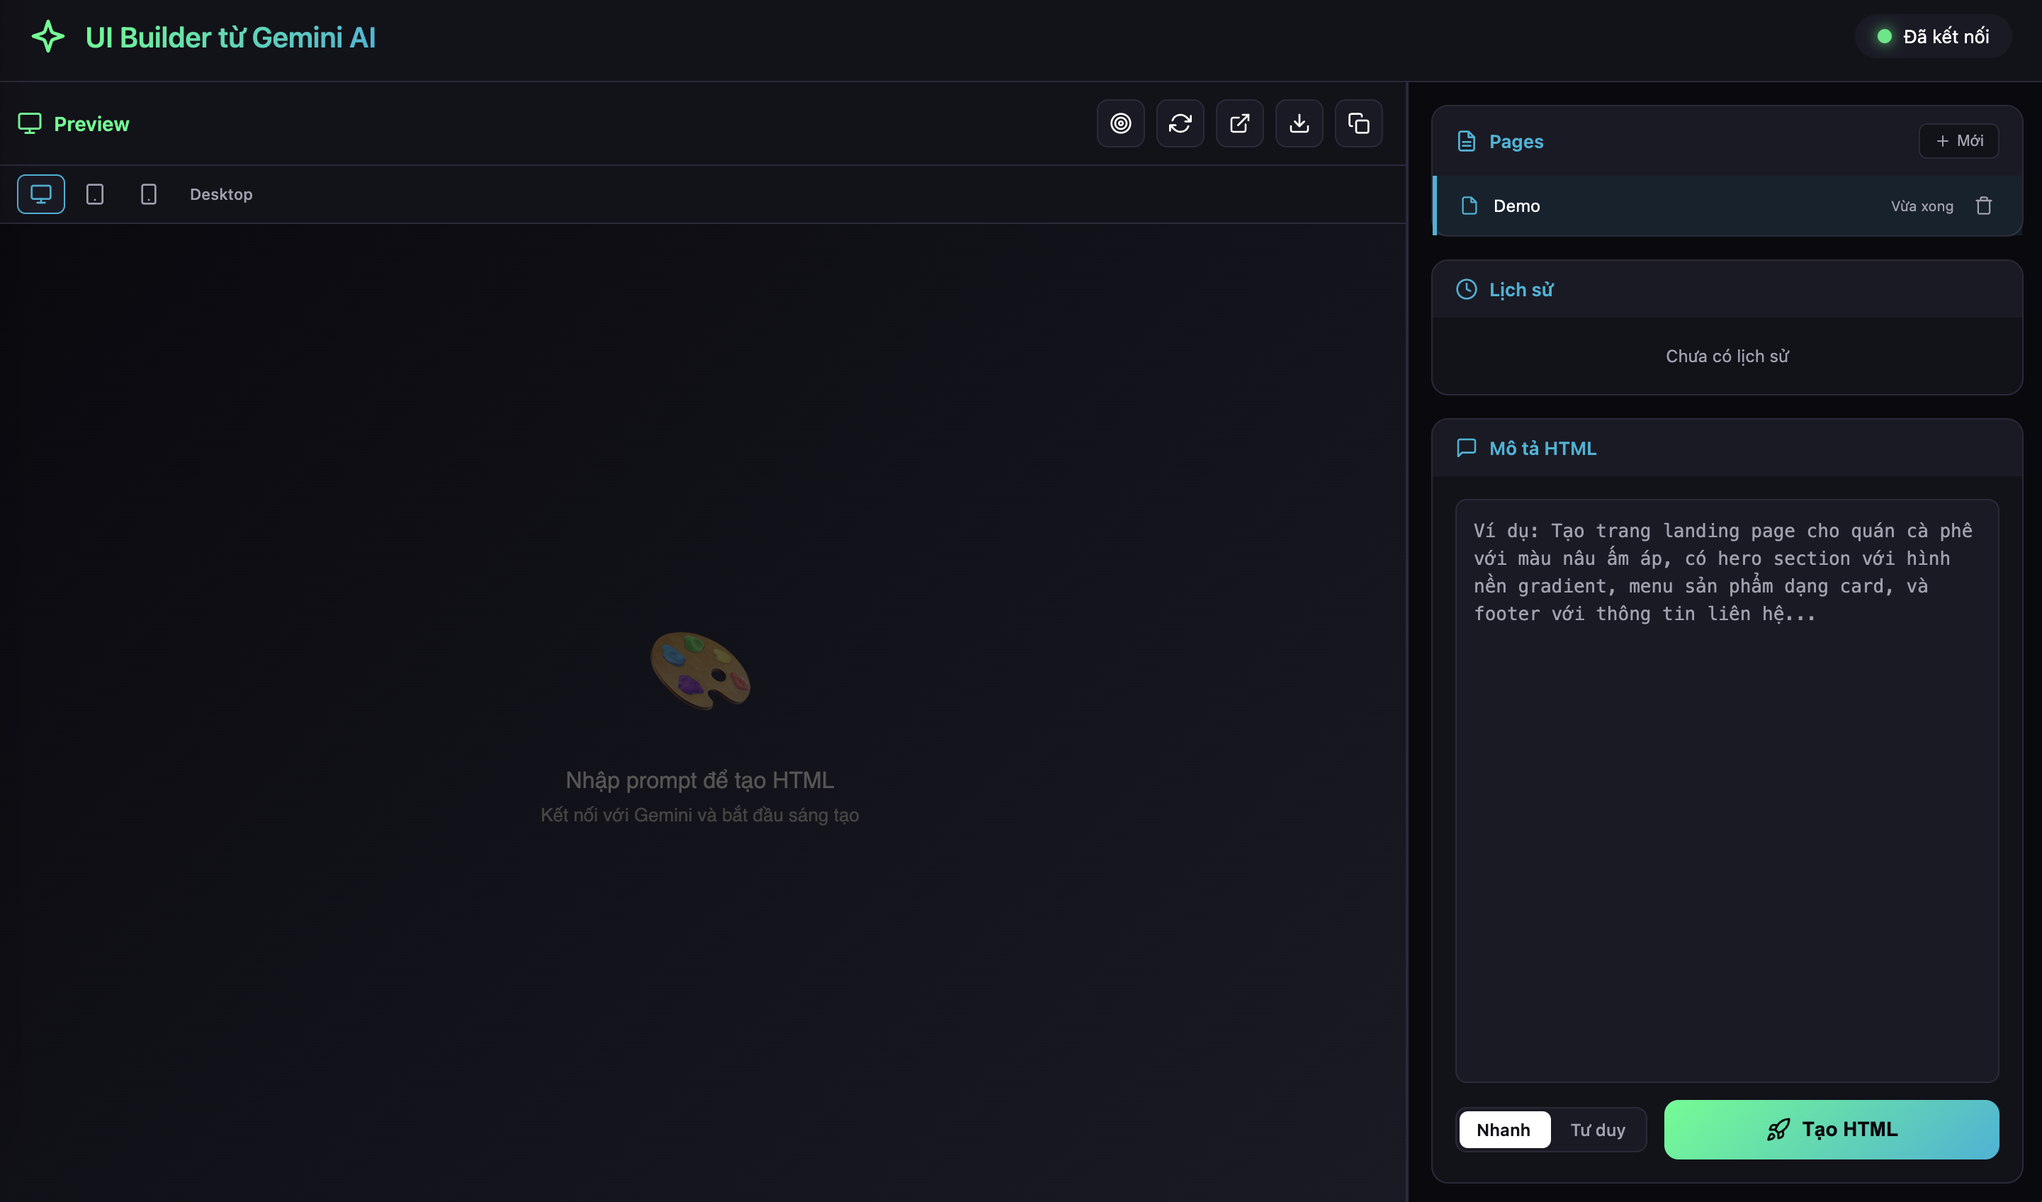
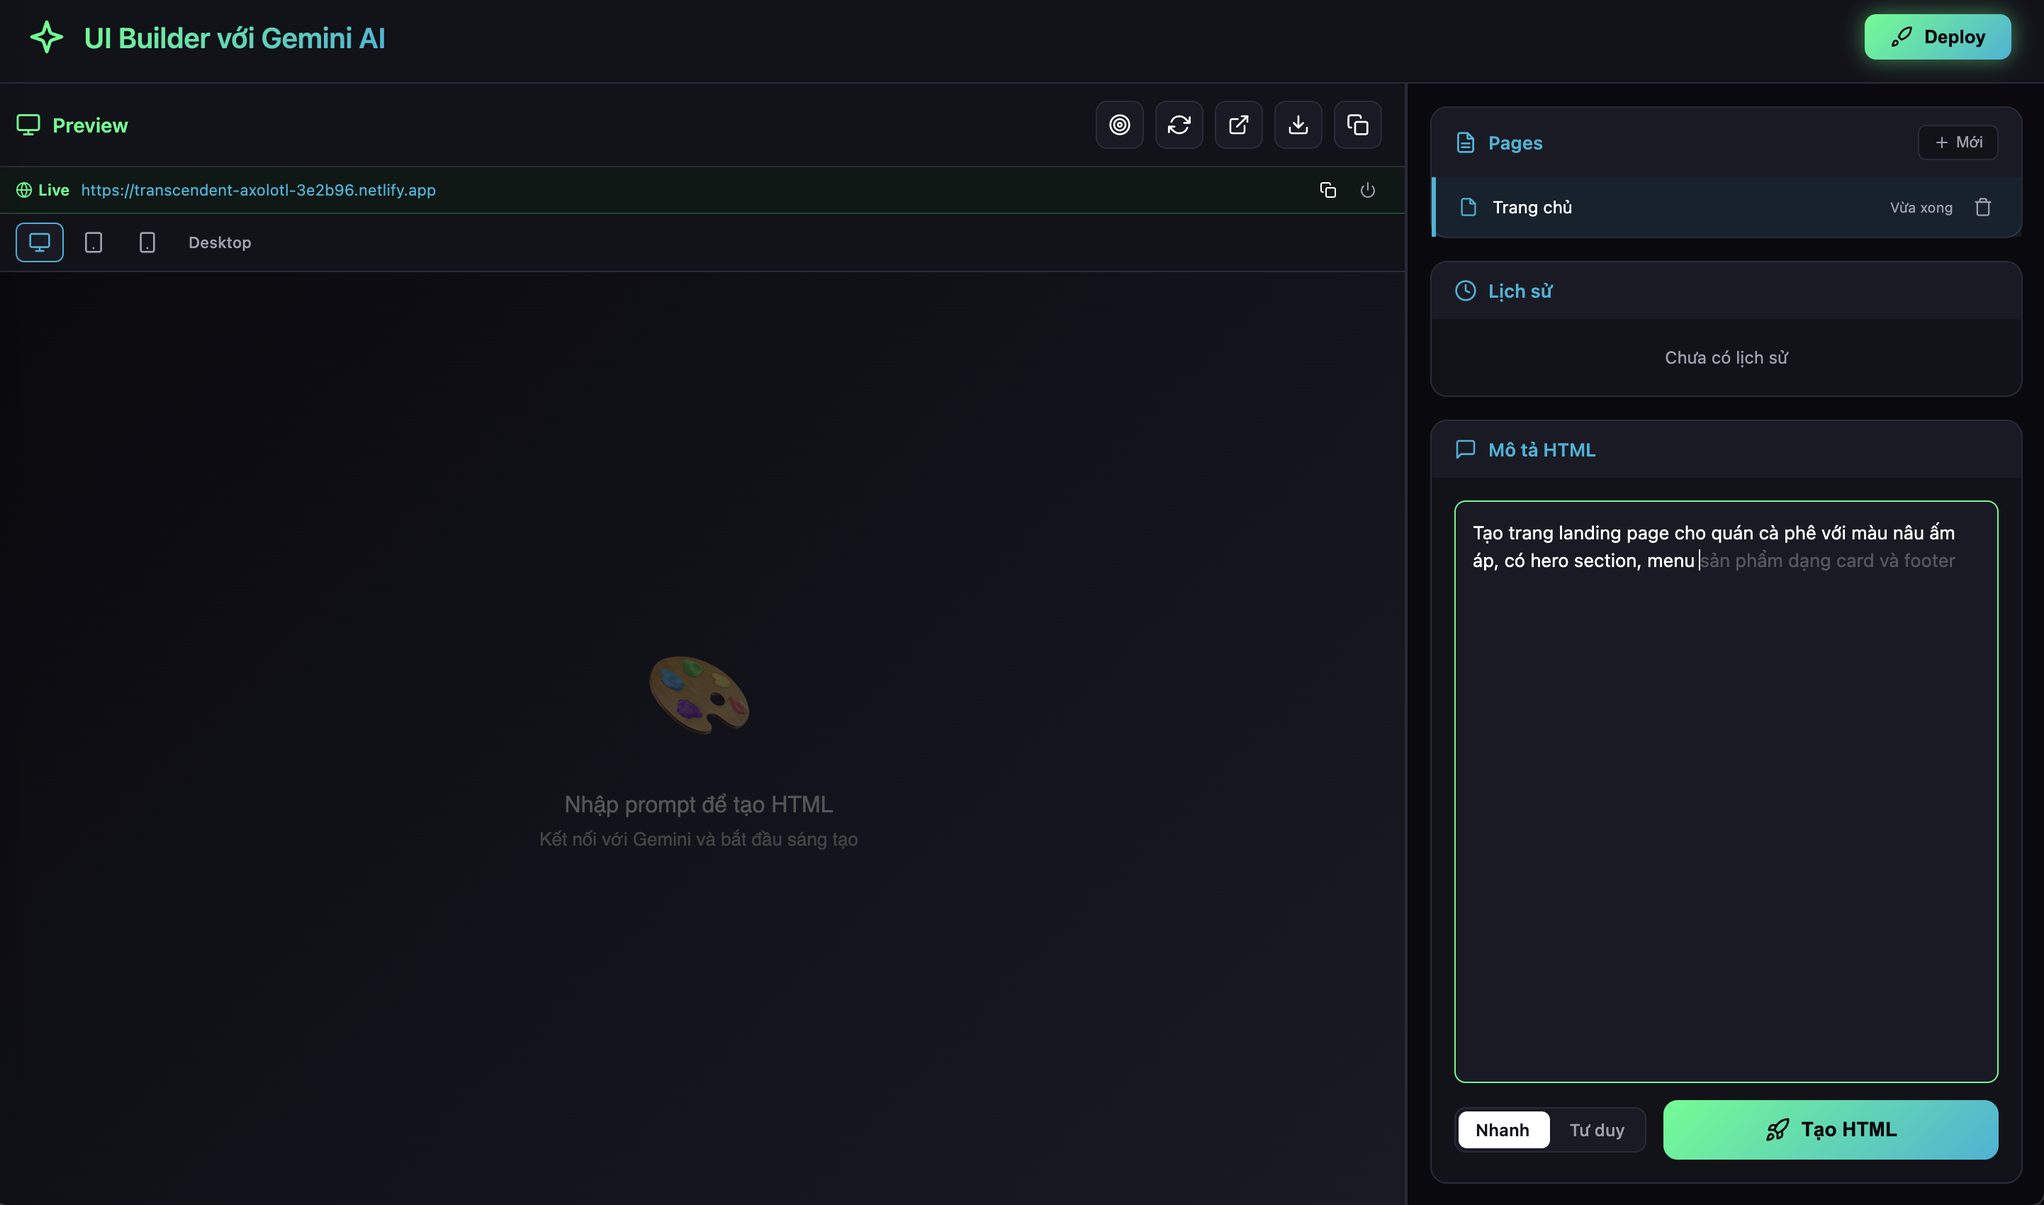
Update README and improve background script for conversation context management

diff --git a/background.js b/background.js
@@ -300,13 +300,20 @@ chrome.runtime.onMessage.addListener((message, sender, sendResponse) => {
         text: message.text || '',
         requestId: message.requestId
       });
-      // Persist updated conversation IDs to chrome.storage.local
-      if (message.suggestConversationId || message.suggestResponseId || message.suggestChoiceId) {
-        if (message.suggestConversationId) suggestConversation.conversationId = message.suggestConversationId;
-        if (message.suggestResponseId) suggestConversation.responseId = message.suggestResponseId;
-        if (message.suggestChoiceId) suggestConversation.choiceId = message.suggestChoiceId;
-        chrome.storage.local.set({ suggestConversation });
-        console.log('Saved suggestConversation to storage');
+      if (message.success) {
+        // Persist updated conversation IDs on success
+        if (message.suggestConversationId || message.suggestResponseId || message.suggestChoiceId) {
+          if (message.suggestConversationId) suggestConversation.conversationId = message.suggestConversationId;
+          if (message.suggestResponseId) suggestConversation.responseId = message.suggestResponseId;
+          if (message.suggestChoiceId) suggestConversation.choiceId = message.suggestChoiceId;
+          chrome.storage.local.set({ suggestConversation });
+          console.log('Saved suggestConversation to storage');
+        }
+      } else if (suggestConversation.conversationId) {
+        // Conversation may have been deleted — clear stale IDs so next request starts fresh
+        suggestConversation = { conversationId: '', responseId: '', choiceId: '' };
+        chrome.storage.local.remove('suggestConversation');
+        console.log('Cleared stale suggestConversation after failure');
       }
       break;
   }

diff --git a/injected.js b/injected.js
@@ -949,6 +949,8 @@ Start your response with exactly: <!DOCTYPE html>`;
       });
 
       if (!response.ok) {
+        // Conversation may have been deleted — reset local context so next call starts fresh
+        suggestConversation = { conversationId: '', responseId: '', choiceId: '' };
         window.postMessage({
           type: 'GEMINI_SUGGEST_RESULT',
           success: false,
@@ -980,6 +982,8 @@ Start your response with exactly: <!DOCTYPE html>`;
 
     } catch (e) {
       console.error('suggestCompletion error:', e);
+      // Reset context in case conversation is invalid
+      suggestConversation = { conversationId: '', responseId: '', choiceId: '' };
       window.postMessage({
         type: 'GEMINI_SUGGEST_RESULT',
         success: false,

diff --git a/README.md b/README.md
@@ -1,97 +1,143 @@
-# ✨ Gemini HTML Builder — Chrome Extension
+# Gemini HTML Builder — Chrome Extension
 
-Chrome Extension tạo HTML/UI với Gemini AI với preview trực tiếp, inspect & chỉnh sửa phần tử, quản lý đa page và lịch sử phiên bản.
+Chrome Extension tạo website HTML/CSS/JS hoàn chỉnh bằng Gemini AI — preview trực tiếp, inspect & chỉnh sửa phần tử, quản lý đa page, gợi ý prompt AI, deploy multi-page lên Netlify.
 
 ## Tính năng
 
-### 🤖 Tạo HTML bằng AI
-- Mô tả UI bằng ngôn ngữ tự nhiên (tiếng Việt), Gemini sinh HTML hoàn chỉnh (single-file, inline CSS)
-- **Hai chế độ AI**: ⚡ Nhanh (Flash) và 🧠 Tư duy (Thinking) — chuyển đổi bằng toggle switch
-- **Chỉnh sửa lặp lại** — prompt tiếp theo tự động bao gồm HTML hiện tại, AI chỉ thay đổi phần được yêu cầu mà bảo toàn toàn bộ CSS/cấu trúc
+### Tạo HTML bằng AI
+- Mô tả UI bằng ngôn ngữ tự nhiên (tiếng Việt), Gemini sinh HTML hoàn chỉnh (single-file, inline CSS/JS)
+- **Hai chế độ AI**: Flash (nhanh) và Thinking (tư duy sâu) — chuyển đổi bằng toggle switch
+- **Chỉnh sửa lặp lại** — prompt tiếp theo tự động bao gồm HTML hiện tại, AI chỉ thay đổi phần được yêu cầu mà bảo toàn CSS/cấu trúc
+- **Conversation context** — mỗi page duy trì ngữ cảnh hội thoại riêng, các prompt tiếp theo hiểu context trước đó
 
-### 🎯 Inspect & Chỉnh sửa phần tử
-- Bật chế độ **Inspect** → di chuột để highlight phần tử → click để chọn
-- Mô tả thay đổi cho phần tử đã chọn → AI chỉ sửa innerHTML của phần tử đó mà không ảnh hưởng phần còn lại
-- Hiển thị CSS selector của phần tử đang được chỉnh sửa
+### Inspect & Chỉnh sửa phần tử
+- Bật chế độ **Inspect** → di chuột highlight phần tử → click chọn
+- Mô tả thay đổi cho phần tử đã chọn → AI chỉ sửa innerHTML của phần tử đó
+- Hiển thị CSS selector của phần tử đang chỉnh sửa
 
-### 📱 Device Preview
+### Device Preview
 - Xem trước ở 3 kích thước: **Desktop** (100%), **Tablet** (768px), **Mobile** (375px)
 - Chuyển đổi nhanh bằng toolbar trên preview
 
-### 📄 Quản lý đa Page
+### Quản lý đa Page
 - Tạo, đổi tên (double-click), xóa nhiều page
-- Mỗi page là một workspace độc lập với conversation context riêng (conversationId/responseId/choiceId)
-- Prompt tiếp theo trên cùng page tiếp tục ngữ cảnh hội thoại trước đó
+- Mỗi page là workspace độc lập với conversation context riêng
+- Chuyển page nhanh, JS trong page hoạt động đầy đủ nhờ sandbox blob URL
 
-### 📜 Lịch sử & Revert
-- Mỗi lần tạo/chỉnh sửa được lưu thành một mục lịch sử (prompt + full HTML)
-- Click vào mục lịch sử bất kỳ để xem lại phiên bản đó
-- **Revert** — click vào phiên bản cũ, prompt tiếp theo sẽ tiếp tục từ phiên bản đã revert
+### Điều hướng Link & Tạo page tự động
+- Click link trong preview → hiện modal tạo page mới hoặc chuyển đến page đã tồn tại
+- Tên page lấy từ text của link (hỗ trợ tiếng Việt có dấu)
+- Prompt được tách: user thấy prompt sạch, internal instructions tự động thêm phía sau
+- Matching thông minh: so khớp bằng tên page + slug fallback (Vietnamese diacritics safe)
 
-### 🛠 Các thao tác khác
-- 🔄 Refresh preview
-- 🔗 Mở preview trong tab mới
-- 📥 Tải xuống file HTML
-- 📋 Copy HTML vào clipboard
-- 🔒 Khóa UI khi đang tạo (click khi đang tạo sẽ hiện hiệu ứng shake-reject)
-- 🔌 Tự động kết nối / tái kết nối Gemini
+### AI Suggestions (Gợi ý prompt)
+- Gợi ý tự động từ danh sách preset + AI-powered completion từ Gemini
+- Ghost text hiển thị gợi ý, nhấn **Tab** để chấp nhận
+- Cache LRU (50 items) tránh gọi API trùng lặp
+- Hoạt động cả ở prompt chính và modal tạo page
+
+### Lịch sử & Revert
+- Mỗi lần tạo/chỉnh sửa được lưu (prompt + full HTML)
+- Click mục lịch sử để xem lại phiên bản cũ
+- **Revert** — prompt tiếp theo sẽ tiếp tục từ phiên bản đã revert
+
+### Deploy lên Netlify (Multi-page)
+- Kết nối bằng Netlify Personal Access Token
+- **Một site duy nhất** cho tất cả các page — deploy/cập nhật cùng một URL
+- Trang đầu tiên → `/index.html` (root), các trang khác → `/slug/index.html`
+- **Tự động rewrite link giữa các page**:
+  - Link có href thật (vd: `san-pham.html`) → match bằng tên page + slug
+  - Link placeholder (`href="#"`) → match bằng nội dung text của link
+- Auto-recreate site nếu bị xóa trên Netlify
+
+### Các thao tác khác
+- Refresh preview / mở trong tab mới / tải xuống HTML / copy HTML
+- Khóa UI khi đang tạo (hiệu ứng shake-reject khi click)
+- Tự động kết nối / tái kết nối Gemini
+- Toast notification kiểu Dynamic Island
 
 ## Cài đặt
 
-1. Mở Chrome → truy cập `chrome://extensions/`
+1. Mở Chrome → `chrome://extensions/`
 2. Bật **Developer mode** (góc phải trên)
 3. Click **Load unpacked** → chọn thư mục `extension-ui-builder`
 4. Click icon extension trên toolbar để mở giao diện
 
 ## Sử dụng
 
-1. **Mở trang Gemini** — Extension tự động mở tab `gemini.google.com` và kết nối khi cần
+1. **Mở giao diện** — Extension tự động mở tab Gemini và kết nối
 2. **Chờ kết nối** — Đèn trạng thái chuyển xanh "Đã kết nối"
-3. **Nhập prompt** — Mô tả HTML/UI bạn muốn tạo
-4. **Chọn model** — ⚡ Nhanh (mặc định) hoặc 🧠 Tư duy
-5. **Nhấn "Tạo HTML"** — Chờ AI trả kết quả, preview hiển thị bên trái
-6. **Chỉnh sửa** — Nhập prompt tiếp theo để sửa đổi, hoặc dùng Inspect để sửa từng phần tử
+3. **Nhập prompt** — Mô tả website bạn muốn tạo (ghost text gợi ý khi gõ)
+4. **Chọn model** — Flash (mặc định) hoặc Thinking
+5. **Nhấn "Tạo HTML"** — Preview hiển thị bên trái
+6. **Chỉnh sửa** — Prompt tiếp theo để sửa, hoặc Inspect để sửa từng phần tử
+7. **Tạo multi-page** — Click link trong preview để tạo page mới liên kết
+8. **Deploy** — Kết nối Netlify token → nhấn Deploy → tất cả page lên cùng một site
 
 ## Kiến trúc
 
 ```
-Options Page ←──chrome.runtime──→ Background (SW) ←──chrome.tabs──→ Content Script ←──postMessage──→ Injected Script
- (Giao diện)                     (Điều phối)                       (gemini.google.com)               (Page Context)
+Options Page ←─chrome.runtime─→ Background (SW) ←─chrome.tabs─→ Content Script ←─postMessage─→ Injected Script
+ (Giao diện)                    (Điều phối)                     (gemini.google.com)              (Page Context)
+      │
+      │ postMessage
+      ▼
+ Sandbox Iframe (blob:// URL)
+ (Preview HTML + Bridge Script)
 ```
 
 | Thành phần | Vai trò |
 |---|---|
-| **options.js** | Giao diện chính — quản lý page, history, prompt, preview, inspect mode, device toolbar |
-| **background.js** | Service worker — điều phối message giữa options và content script, quản lý tab Gemini, tự động kết nối |
-| **content.js** | Chạy trên gemini.google.com — cầu nối giữa chrome.runtime và window.postMessage, inject script |
-| **injected.js** | Chạy trong page context của Gemini — trích xuất token xác thực, gọi API StreamGenerate, parse streaming response |
+| **options.js** | Controller chính — page, history, prompt, preview, inspect, deploy, AI suggestion, link modal |
+| **background.js** | Service worker — điều phối message, quản lý tab Gemini, lưu suggestion context |
+| **content.js** | Chạy trên gemini.google.com — cầu nối chrome.runtime ↔ window.postMessage |
+| **injected.js** | Page context Gemini — trích xuất token xác thực, gọi StreamGenerate API, parse streaming |
 | **db.js** | IndexedDB wrapper — lưu trữ pages và lịch sử HTML |
+| **icons.js** | SVG icon library |
 
 ### Luồng tạo HTML
 
 ```
 1. User nhập prompt → options.js
-2. options.js xây dựng prompt (new / modification / element-edit) → GENERATE_HTML → background.js
-3. background.js tìm/mở tab Gemini → GENERATE_REQUEST → content.js
-4. content.js → postMessage → injected.js
-5. injected.js:
-   - Trích xuất token (SNlM0e, FdrFJe, bl) từ DOM
-   - Gọi POST /_/BardChatUi/data/assistant.lamda.BardFrontendService/StreamGenerate
+2. options.js xây dựng prompt (new / modification / element-edit) → background.js
+3. background.js → content.js → injected.js
+4. injected.js:
+   - Trích xuất token (SNlM0e, bl, sessionId) từ page
+   - POST /_/BardChatUi/data/assistant.lamda.BardFrontendService/StreamGenerate
    - Parse streaming response (chunked wrb.fr JSON)
-   - Trích xuất HTML từ token array hoặc text field
-   - Trích xuất conversationId / responseId / choiceId
-6. Kết quả chảy ngược: injected.js → content.js → background.js → options.js
-7. options.js hiển thị preview, lưu IndexedDB, cập nhật history
+   - Trích xuất HTML + conversationId / responseId / choiceId
+5. Kết quả chảy ngược: injected.js → content.js → background.js → options.js
+6. options.js: fix pipeline → preview → lưu IndexedDB → cập nhật history
 ```
 
 ### Xử lý prompt thông minh
 
 | Tình huống | Cách xử lý |
 |---|---|
-| **Page trống** | Bọc prompt với hướng dẫn tạo HTML thuần (single-file, inline CSS, responsive, không dùng ảnh) |
-| **Có HTML + sửa đổi** | Gửi kèm toàn bộ HTML hiện tại + yêu cầu sửa + luật bảo toàn CSS/cấu trúc |
-| **Chỉnh sửa phần tử** | Gửi outerHTML của phần tử + yêu cầu → AI trả innerHTML mới |
-| **Revert** | Đánh dấu trạng thái revert, prompt tiếp theo bao gồm note cho AI biết đã revert |
+| **Page trống** | Bọc prompt với hướng dẫn tạo HTML thuần (single-file, inline CSS, responsive) |
+| **Có HTML + sửa đổi** | Gửi kèm HTML hiện tại + yêu cầu sửa + luật bảo toàn CSS/cấu trúc |
+| **Chỉnh sửa phần tử** | Gửi outerHTML phần tử + yêu cầu → AI trả innerHTML mới |
+| **Revert** | Đánh dấu trạng thái revert, prompt tiếp theo bao gồm context đã revert |
+| **Tạo page từ link** | Tách user prompt (sạch) khỏi internal instructions (giữ style/header/footer) |
+
+### HTML Fix Pipeline
+
+Gemini đôi khi sinh HTML bị lỗi encoding. Pipeline tự động sửa trước khi preview:
+
+| Hàm | Sửa lỗi |
+|---|---|
+| `fixMarkdownUrls` | URL bị wrap markdown `[url](url)` trong HTML attribute và `<script>` |
+| `fixSuspiciousLinks` | `[suspicious link removed]` → detect library → inject CDN (Font Awesome, Bootstrap, AOS...) |
+| `fixEncodedScripts` | Entity-encoded JS trong `<script>` (`&lt;`, `&amp;`...) → decode, escape `</script>` safety |
+| `fixBackslashAmpersands` | `\&amp;` và `\&` trong URL attribute → `&` (skip script blocks) |
+| `fixEscapedCSS` | `/\*` → `/*` và `\*/` → `*/` trong `<style>` blocks |
+
+### Sandbox Preview
+
+- Preview chạy trong iframe sandbox qua **blob:// URL** (không dùng `document.write()`)
+- Mỗi lần chuyển page tạo blob URL mới → JS scope hoàn toàn sạch, không bị `const` redeclaration
+- **Bridge Script** inject vào HTML: hỗ trợ inspect mode, link interception, element data access, innerHTML update
+- Giao tiếp qua `postMessage` — parent gửi `PREVIEW_HTML`, sandbox gửi `SANDBOX_READY`
 
 ## Cấu trúc thư mục
 
@@ -99,16 +145,14 @@ Options Page ←──chrome.runtime──→ Background (SW) ←──chrome.ta
 extension-ui-builder/
 ├── manifest.json       # Chrome Extension manifest v3
 ├── background.js       # Service worker — điều phối messages
-├── content.js          # Content script — chạy trên gemini.google.com
-├── injected.js         # Injected script — gọi Gemini API trong page context
+├── content.js          # Content script — gemini.google.com
+├── injected.js         # Injected script — gọi Gemini API
 ├── options.html        # Giao diện chính (two-panel layout)
-├── options.js          # Logic giao diện — page, history, prompt, preview, inspect
+├── options.js          # Logic chính — page, history, preview, inspect, deploy
 ├── options.css         # Dark theme stylesheet
-├── db.js               # IndexedDB manager (pages + htmlHistory)
+├── db.js               # IndexedDB manager
 ├── icons.js            # SVG icon library
-├── gemini-api.js       # Alternative API handler (legacy)
-├── styles.css          # Alternative stylesheet (legacy)
-├── icons/              # Extension icon PNGs (16, 48, 128)
+├── icons/              # Extension icons (16, 48, 128px)
 └── README.md
 ```
 
@@ -120,7 +164,7 @@ extension-ui-builder/
 | Field | Mô tả |
 |---|---|
 | `id` | Auto-increment primary key |
-| `name` | Tên page (vd: "Page 1") |
+| `name` | Tên page |
 | `createdAt` | Timestamp tạo |
 | `conversationId` | Gemini conversation ID (per-page) |
 | `responseId` | Gemini response ID |
@@ -136,35 +180,28 @@ extension-ui-builder/
 | `prompt` | Prompt đã dùng |
 | `html` | Full HTML content |
 | `timestamp` | Timestamp |
-| `date` | Formatted date string (vi-VN) |
+| `date` | Formatted date (vi-VN) |
 
-## Giao diện
+## Screenshots
 
-### Screenshots 1
-![Screenshot 1](screenshot/1.png)
+### Screenshot 1 — Giao diện chính + AI Suggestion
+![Main UI](screenshot/1.png)
 
-### Screenshots 2
-![Screenshot 2](screenshot/2.png)
+### Screenshot 2 — Inspect & chỉnh sửa phần tử
+![Inspect Mode](screenshot/2.png)
 
-### Screenshots 3
-![Screenshot 3](screenshot/3.png)
+### Screenshot 3 — Tạo page từ link click
+![Link Navigation](screenshot/3.png)
+
+### Screenshot 4 — Deploy multi-page lên Netlify
+![Netlify Deploy](screenshot/4.png)
+Link demo: https://transcendent-axolotl-3e2b96.netlify.app/
 
 ## Lưu ý
 
 - Cần **đăng nhập vào Gemini** trên cùng trình duyệt Chrome
-- Extension sẽ tự mở tab Gemini khi cần — **giữ tab Gemini mở** để duy trì kết nối
-- Nếu mất kết nối, extension sẽ tự kết nối lại khi nhấn "Tạo HTML"
-- Mỗi page có conversation context riêng — prompt tiếp theo sẽ hiểu ngữ cảnh trước đó
-- HTML được tạo là **single-file** (inline CSS, không external dependencies) để dễ tải xuống và sử dụng
-
-## Theme
-
-Dark theme với bảng màu:
-
-| Vai trò | Giá trị |
-|---|---|
-| Nền chính | `#0a0a0f` → `#12121a` → `#1a1a25` |
-| Accent chính | `#00ff88` (neon green) |
-| Accent phụ | `#00b4d8` (cyan) |
-| Danger | `#ff4757` (red) |
-| Text | `#ffffff` / `#a0a0b0` |
+- Extension tự mở tab Gemini khi cần — **giữ tab Gemini mở** để duy trì kết nối
+- Nếu mất kết nối, extension tự kết nối lại khi nhấn "Tạo HTML"
+- Mỗi page có conversation context riêng — prompt tiếp theo hiểu ngữ cảnh trước đó
+- HTML single-file (inline CSS/JS) — dễ tải xuống và sử dụng độc lập
+- Deploy Netlify yêu cầu Personal Access Token (tạo tại app.netlify.com/user/applications)
